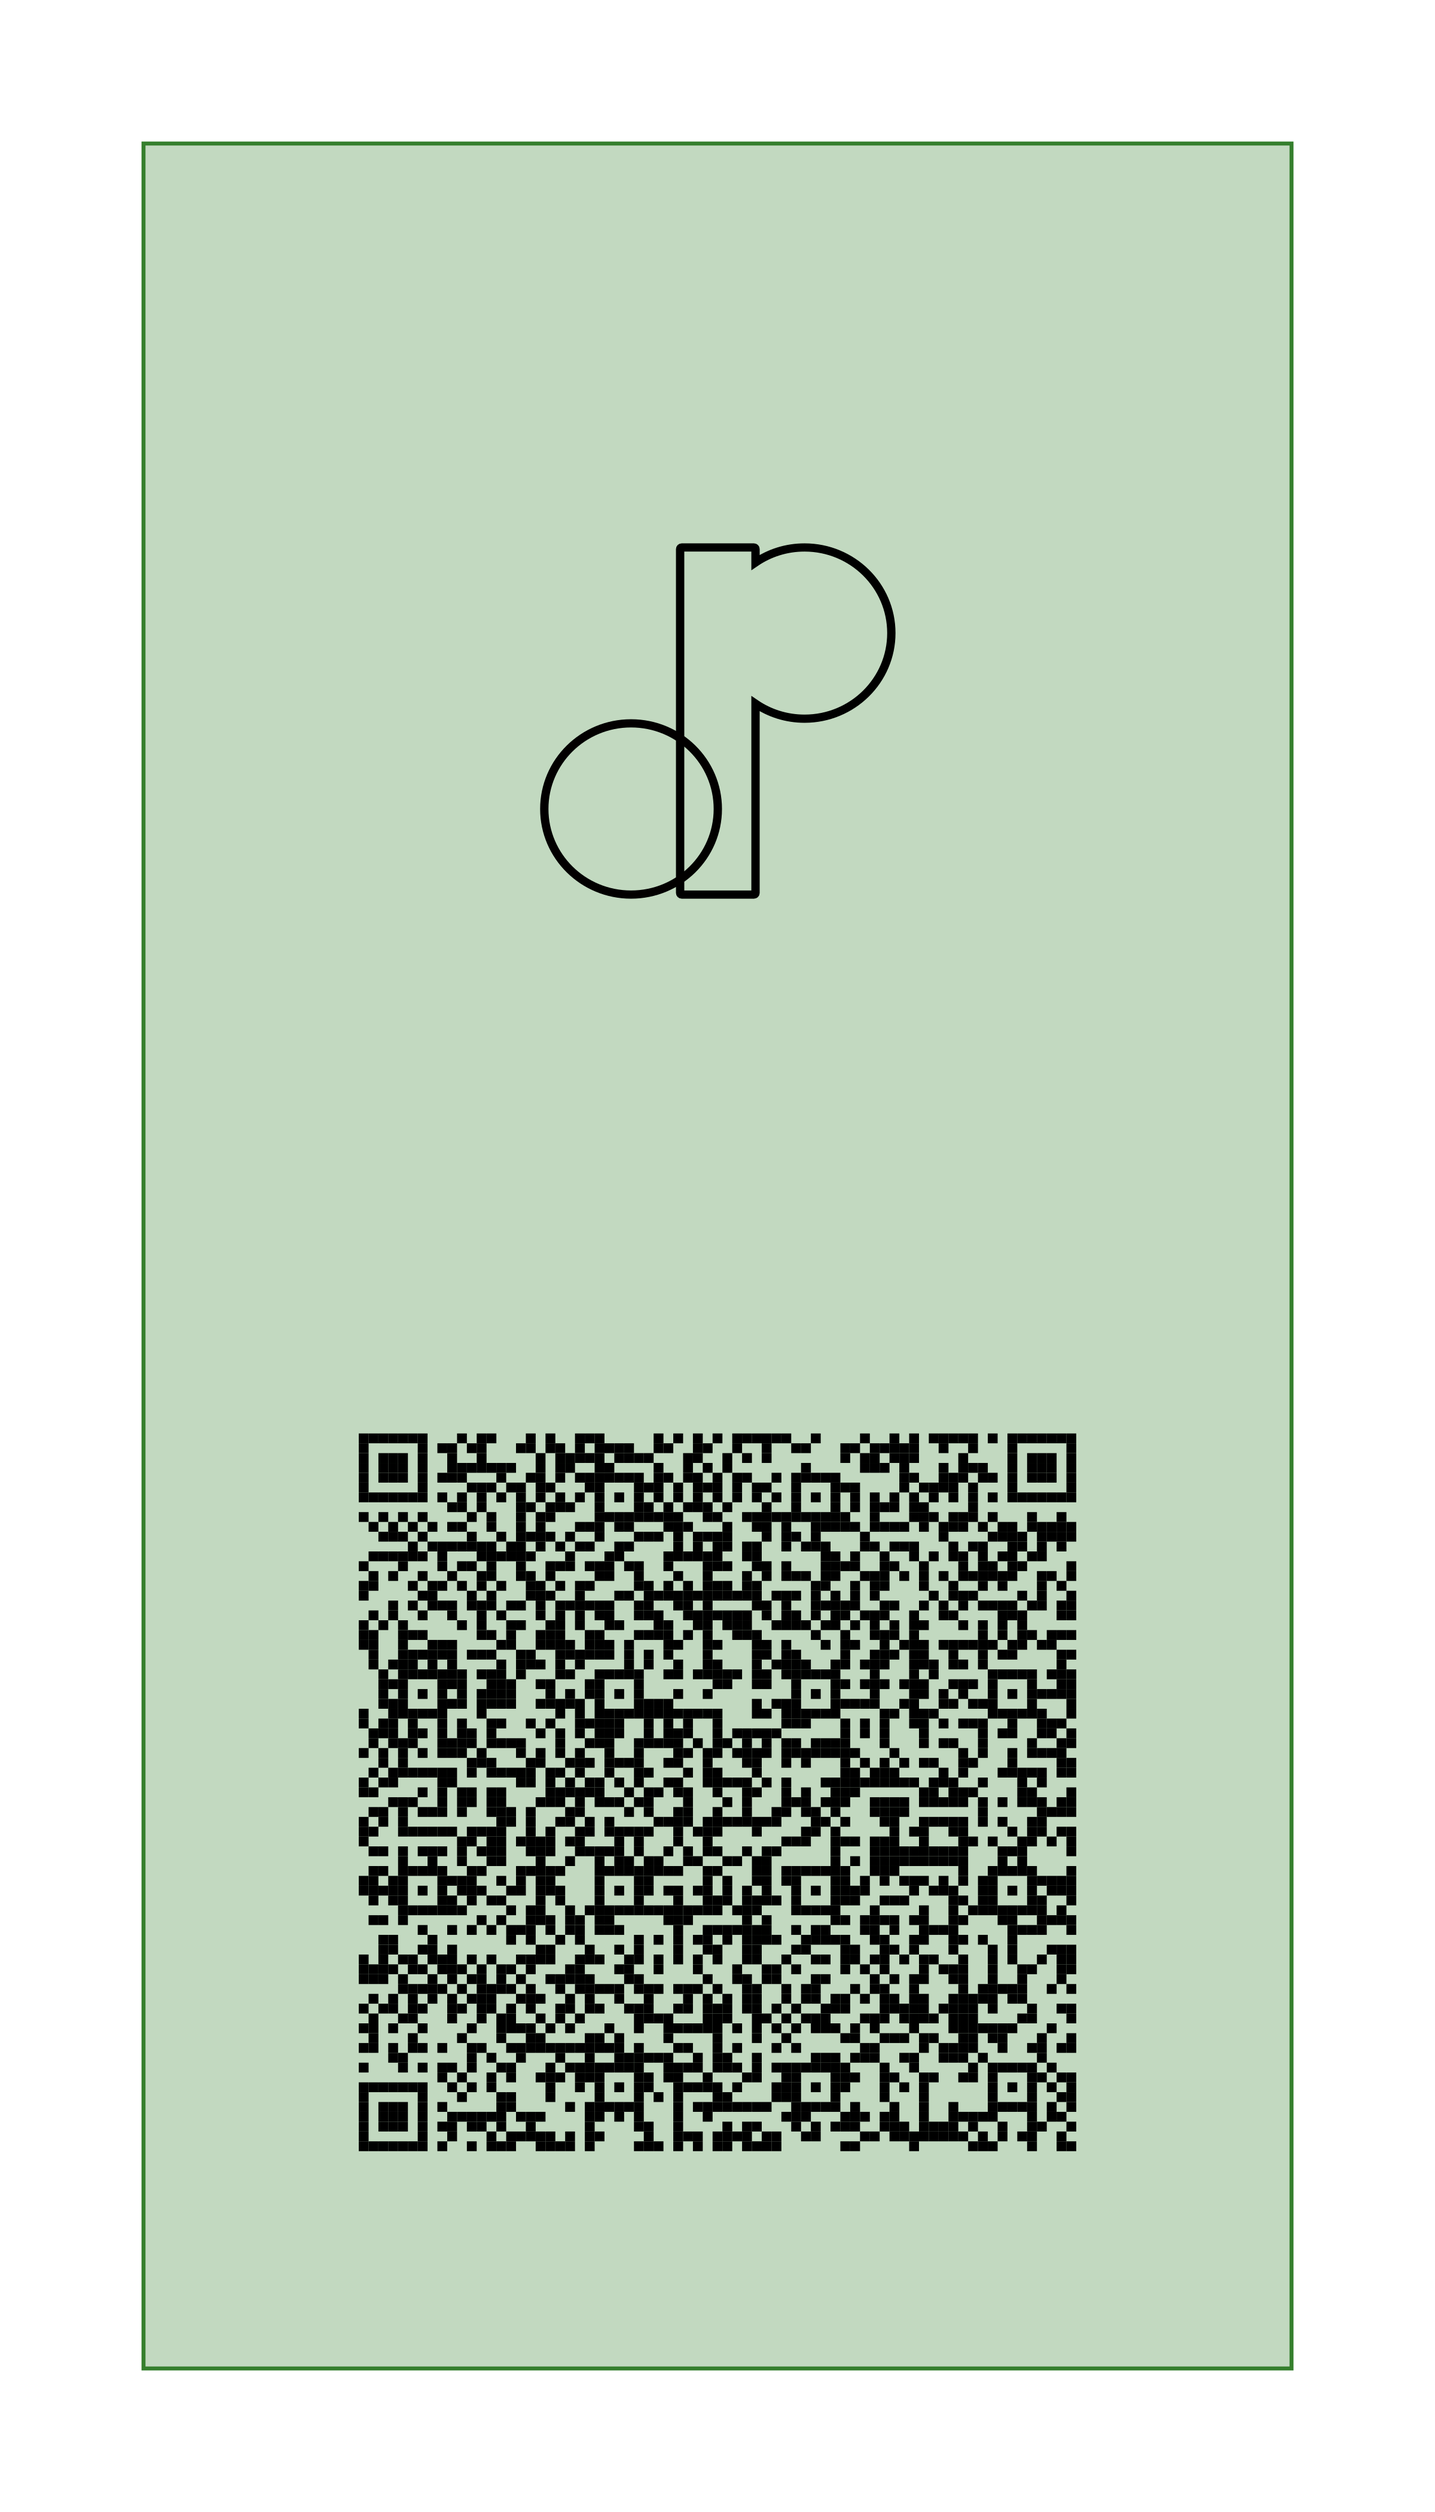
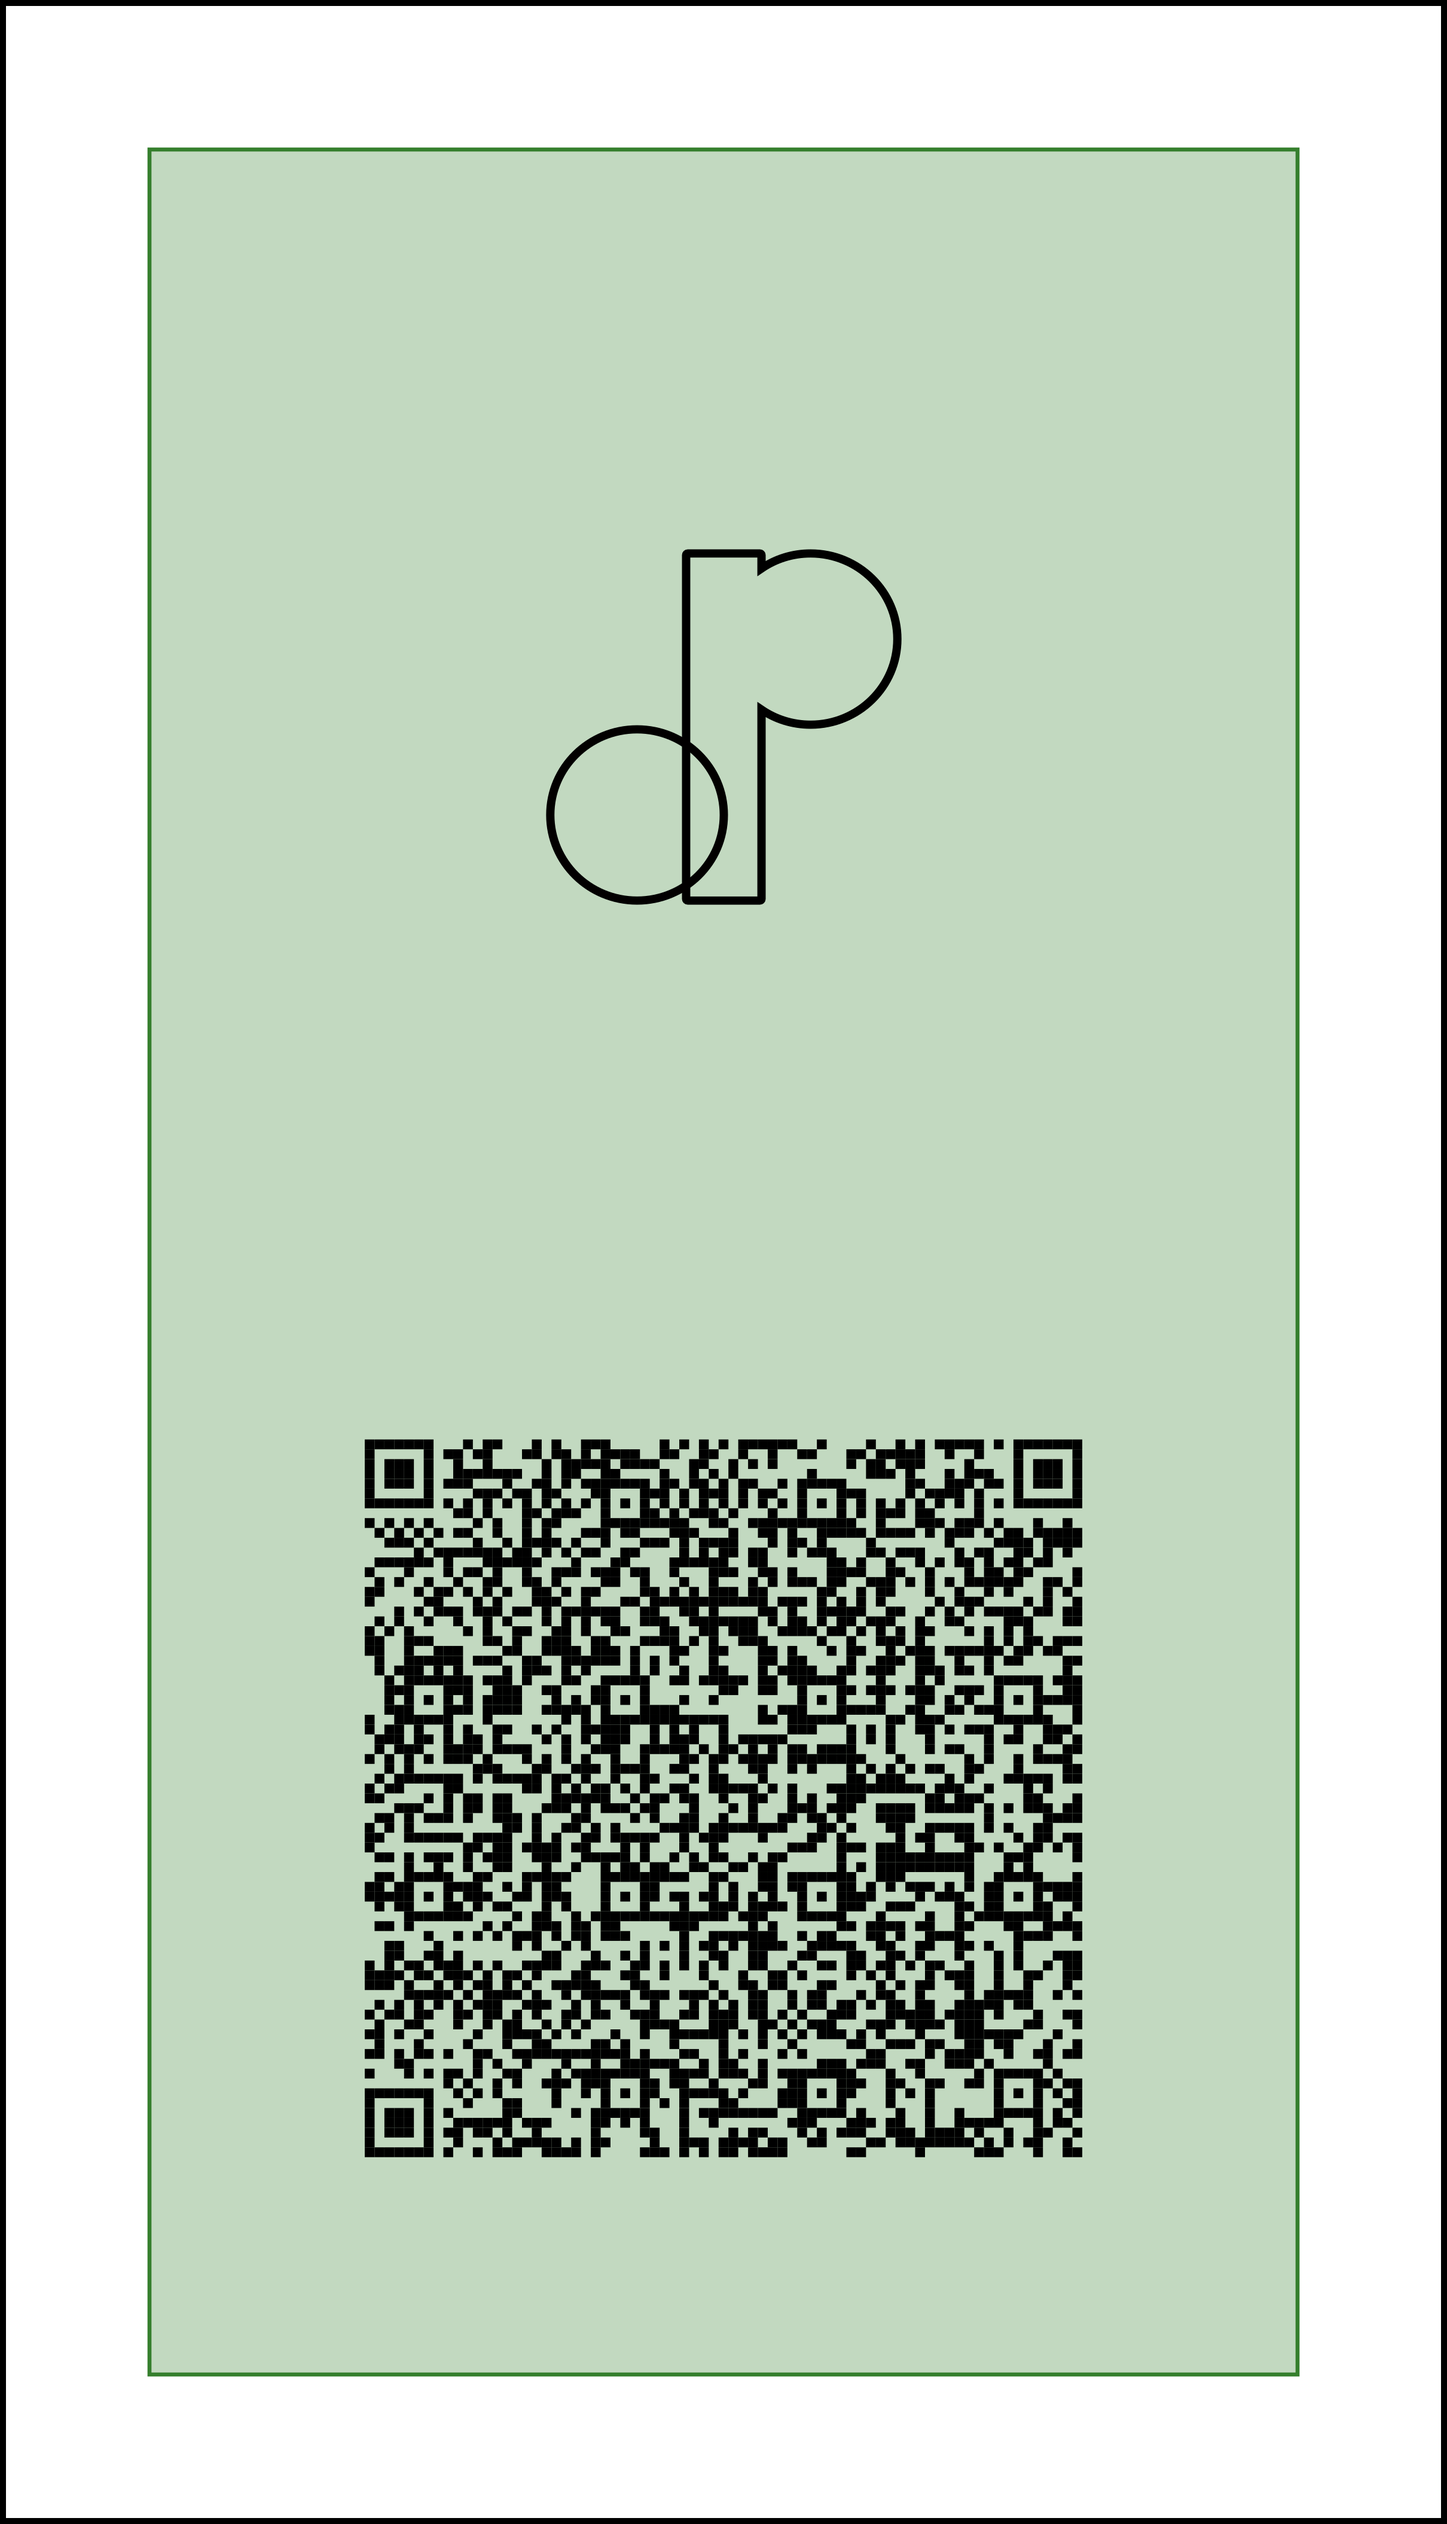
Removed style tag. Added border to images themselves.

diff --git a/README.md b/README.md
@@ -3,15 +3,9 @@ Business Card
 
 Example:
 
-<style>
-img {
-  border: 1px solid black; 
-  max-width: 200px;
-}
-</style>
 <div>
-    <img src="images/front.png" alt-="front side business card"/>
-    <img src="images/back.png" alt-="back side business card"/>
+    <img src="images/front.png" alt-="front side business card" width="200px"/>
+    <img src="images/back.png" alt-="back side business card" width="200px"/>
 </div>
 
 Requirements
